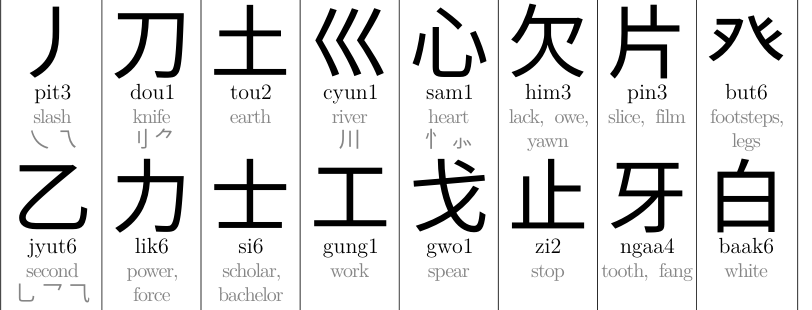
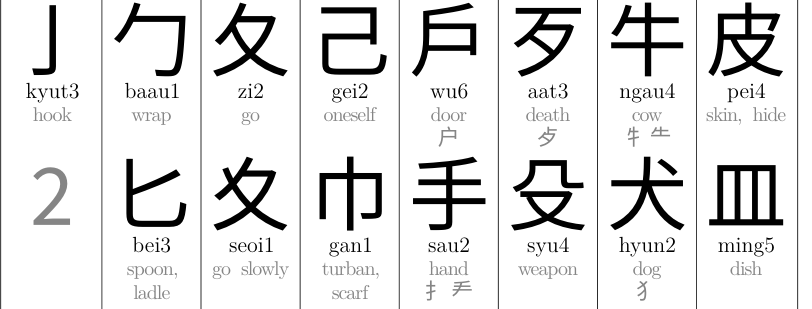
Regenerate all README previews on every run
Previews were only created when missing, so their strip index was fixed
at whatever position the PDF had when first generated. Adding new fonts
shifted positions and new previews duplicated existing strips.

diff --git a/generate_readme.py b/generate_readme.py
@@ -99,12 +99,11 @@ def main():
 
     print(f"Found {len(pdfs)} PDFs")
 
-    # Generate previews
+    # Generate previews (always regenerate: strip index depends on position in the sorted list)
     for i, (romanisation, font_name, pdf_path) in enumerate(pdfs):
         clip_path = CLIP_DIR / f"{pdf_path.stem}.png"
-        if not clip_path.exists():
-            print(f"  Preview: {font_name} from {pdf_path.name}")
-            generate_preview(pdf_path, clip_path, i)
+        print(f"  Preview: {font_name} from {pdf_path.name}")
+        generate_preview(pdf_path, clip_path, i)
 
     lines = []
     lines.append("""
